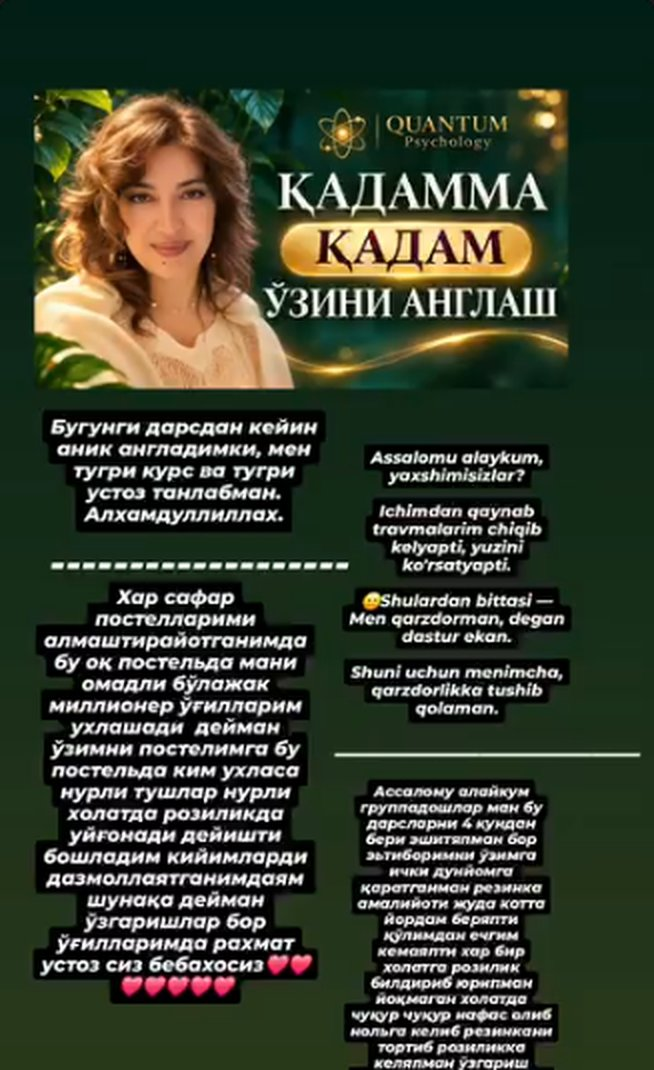
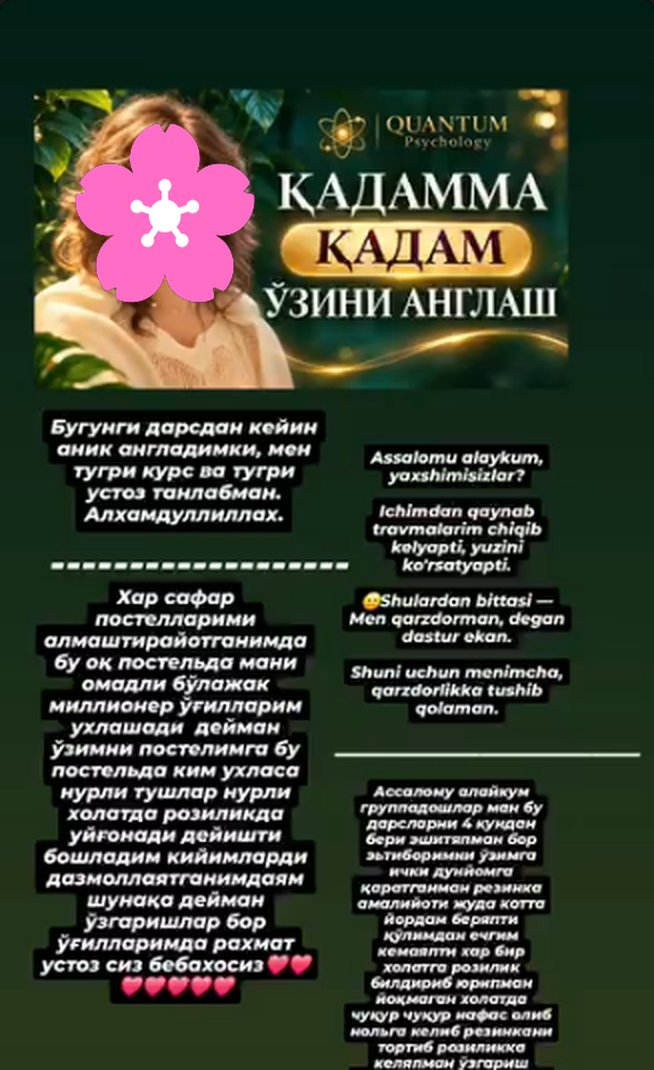
feat: keep one Odinaxon review card and cover review faces with flower emoji
Remove three duplicate cards of the same client (kept the before/after card),
renumber review JPEGs to 01..24 and cover faces on reviews 15-18 with a
flower emoji. Manifest and expected count updated accordingly.

Changed region(s): [[0.0917, 0.0925, 0.3976, 0.3084]]

diff --git a/scripts/prepare_bot_media.py b/scripts/prepare_bot_media.py
@@ -25,7 +25,7 @@ INITIAL_CRF = 28
 MAX_CRF = 40
 CRF_STEP = 3
 AUDIO_BITRATE = "96k"
-EXPECTED_COUNTS = {"reviews": 27, "about": 2}
+EXPECTED_COUNTS = {"reviews": 24, "about": 2}
 IMAGE_TARGETS = {
     (ROOT / "bot/assets/reviews").resolve(): "reviews",
     (ROOT / "bot/assets/about").resolve(): "about",

diff --git a/docs/mentor/review-face-emoji.md b/docs/mentor/review-face-emoji.md
@@ -1,0 +1,35 @@
+# Review album: one Odinaxon card + flower emoji on faces
+Holat: TUGADI
+Ijrochi: codex
+Turi: ISH · Hajm: KICHIK (fayl o'chirish bor — kartada tasdiqlangan)
+Spec: yo'q
+Boshlangan: 2026-11-27
+
+## Karta
+Maqsad: "Natijalar" albomida Ahmedova Odinaxonning 4 ta kartasidan faqat eng kuchlisi (17.jpg, "Коучинггача / Ҳозир") qolsin; belgilangan rasmlarda yuz 🌸 bilan yopilsin.
+Qilinadi:
+- bot/assets/reviews/16.jpg, 18.jpg, 19.jpg o'chiriladi (tasdiqlangan).
+- 🌸 (rangli, Segoe UI Emoji) yuzga: 15.jpg, 17.jpg, 20.jpg, 21.jpg.
+- Qayta raqamlash 01..24 (17→16, 20→17, 21→18, 22..27→19..24).
+- Manifest: otziv/01, 03, 04 → skipped; post-edit eslatma. EXPECTED_COUNTS reviews 27→24.
+Qilinmaydi: prepare_bot_media.py to'liq yurgizilmaydi (about/02.jpg qo'lda almashtirilgan — 5adf46d); video, about, bot kodi o'zgarmaydi.
+Qabul mezonlari: reviews 01..24.jpg; 4 rasmda rangli 🌸 yuzni to'liq yopadi, matnga tegmaydi; `python scripts/prepare_bot_media.py --check` va `pytest` o'tadi.
+
+## To'lqinlar
+### To'lqin 1 — TUGADI
+- [x] 1. Emodzi qo'yish + o'chirish + qayta raqamlash + manifest/count (1-urinishda; tekshiruvchining 15.jpg "iyak" topilmasi mentor tomonidan rad etildi — ko'ringan joy bo'yin)
+
+## Qarorlar
+- Qoladigan karta: 17.jpg "Коучинггача / Ҳозир" (foydalanuvchi tanlovi = mentor tavsiyasi).
+- Emodzi: 🌸 (foydalanuvchi tanlovi; mentor tavsiyasi 😊 edi — did masalasi).
+- Pipeline qayta yurgizilmaydi: bot/assets — haqiqat manbai.
+
+## Kichik topilmalar (keyinroq)
+- prepare_bot_media.py to'liq qayta yurgizilsa about/02 almashuvi va 🌸 yo'qoladi.
+- `prepare_bot_media.py --check` about/02.jpg da yiqiladi (1086x1448 > MAX_IMAGE_SIDE 1280) — 5adf46d dan beri, oldindan mavjud. Tuzatish: rasmni ≤1280 ga kichraytirish.
+
+## Foydalanuvchi vazifalari
+- [ ] Serverga deploy (bot qayta ishga tushsa file_id keshi yangilanadi).
+
+## Keyingi sessiya uchun eslatma
+- Faqat bitta to'lqin.
